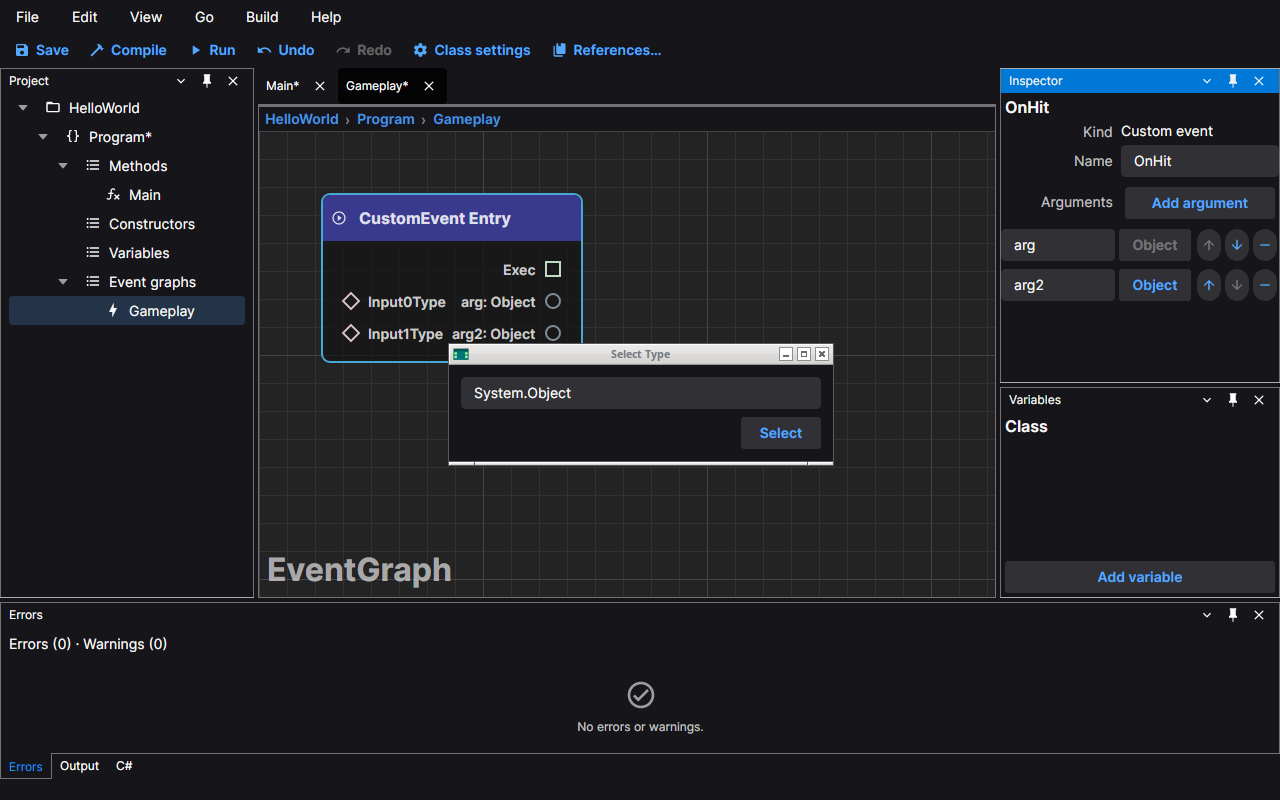
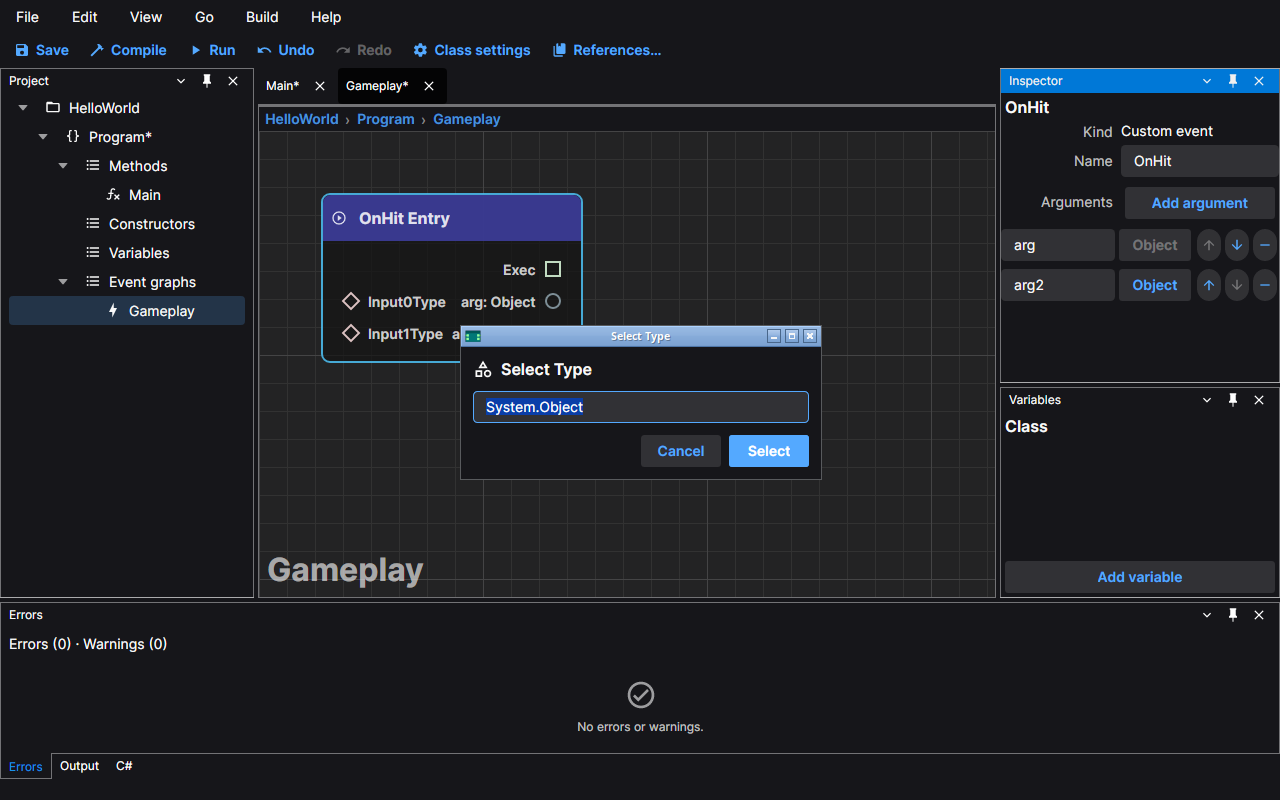
Regenerate the guide images after the rename and popup fixes
Event graph shots show the renamed entry title and corner label and the
dark popup surface, the Select Type window has its Cancel button, and the
start page images carry the new build version. The event graph inspector
capture waits for the reference reload to finish. The Select Type step in
the event graph guide mentions Cancel. Notes for the batch added.

Changed region(s): [[0.3438, 0.4062, 0.6562, 0.5938], [0.1875, 0.6875, 0.3438, 0.75], [0.2812, 0.25, 0.4062, 0.2812]]

diff --git a/tests/NetPrints.Desktop.E2ETests/Scenarios/GuideScreenshotTests.cs b/tests/NetPrints.Desktop.E2ETests/Scenarios/GuideScreenshotTests.cs
@@ -344,6 +344,7 @@ public sealed class GuideScreenshotTests(DesktopWorkerPool pool) : ProjectEditor
             await tree.SelectAsync(tree.Class(ClassName), token);
             await tree.SelectAsync(tree.Item(AutomationIds.TreeKindEventGraph, "Gameplay"), token);
             await inspector.EventGraphInspector.WaitVisibleAsync(token);
+            await WaitNotBusyAsync(token);
             await ShootAsync("event-graph-inspector", token);
             await new UiElement(Driver, new AutomationQuery(AutomationIds.EventGraphInspectorSelectEntry) { Name = "Select ToString" }).ClickAsync(token);
             await inspector.EventEntryBaseSignature.WaitVisibleAsync(token);

diff --git a/specs/005-editor-shell/implementation-notes.md b/specs/005-editor-shell/implementation-notes.md
@@ -2737,3 +2737,11 @@ tests, 0 failed, 31 skipped (E2E self-skips and `PanCursor`); desktop E2E 50/50 
 - Bug 3, clipped override note: the note was a no-wrap text block; it wraps now. The UI test failed on `TextWrapping` (NoWrap). Commit 43f5882e.
 - Bug 4, Esc in Select Type: the window did not use the dialog shell, so it had no cancel button for Esc to run; neither did the References dialog (its Close button was a plain button). Both now sit in the shell: Select Type has a Cancel button (closes with no type), References marks Close as the cancel button. Both Esc tests failed on "closed". Baselines `dialog-select-type.png` and `dialog-references.png` rewritten. Commit 8d95dc97.
 - Not changed: the canvas corner label that keeps the old event graph name after a rename, and the entry node title after a rename, stay open.
+
+## H-R1b (rename labels, node search surface, guide images)
+
+- Corner label: `EventGraph.Name` was a plain property and `NodeGraphViewModel.Name` is computed, so nothing told the binding. `EventGraph` now raises property changes and the graph view model forwards `Name` (method names already notified on the model, but were not forwarded either). Red: both label tests failed on the missing `Name` notification. Commit a9f3b213.
+- Entry title: the title is derived at display time (`Node.ToString()`), but `NodeViewModel` never re-raised `Label` when `EventName` or the method name changed. It does now, undo and redo included; nothing about saving changed. Override entries have a fixed name, so they had no gap; a method entry had the same gap as the event entry. Red: both title tests failed on `Label` not raised. Commit 5bf21b29.
+- Not fixed: a constructor graph's label and its entry title come from the class name, and `ClassGraph.Name` does not notify, so renaming the class in its inspector leaves them stale until the graph is reopened.
+- Node search: not the fade (`TheNodeSearchPopupFadesInAgainOnEveryOpen` covers it and the guide shot has opacity 1). The panel painted `SystemControlBackgroundAltHighBrush`, which is pure black in the dark variant, on any renderer. The headless test reproduced it (background `Black` in Dark) for the node search and the Get/Set chooser; both now use a new `Popup.Background` token (dark surface in Dark, white in Light). Baselines `search-popup.png` and `get-set-chooser.png` rewritten. Commit a4a46f2f.
+- Guide images: regenerated; kept `event-argument-type`, `event-entry-inspector`, `event-entry-refused` (corner label), `event-graph-inspector`, `event-graph-search` (panel colour), `event-override-inspector`, `override-dialog` (corner label) and the three that carry the build version (`start-page`, `new-project-dialog`, `recover-prompt`). Reverted `connection-tooltip`, `event-graph-rename` (caret and status bar pixels) and `unsaved-prompt` (the warning row arrives late, so a run may or may not show it). `event-graph-inspector` once caught the reference reload in the status bar, so the capture waits for the busy bar first.

diff --git a/docs/guide/editor/event-graphs.md b/docs/guide/editor/event-graphs.md
@@ -58,7 +58,7 @@ Select the entry node of a custom event, or press **Select** for it in the list 
 **Add argument** adds an argument called `arg` (then `arg2` and so on) of type `Object`. In each row:
 
 - the text box renames the argument;
-- the type button opens the **Select Type** window, where you choose another type and press **Select**;
+- the type button opens the **Select Type** window, where you choose another type and press **Select** (**Cancel** or Esc closes it and keeps the current type);
 - the arrow buttons move the argument up or down, and the minus button removes it.
 
 ![The Select Type window opened from the type button of an argument](../../../website/static/img/guide/editor/event-argument-type.png)
